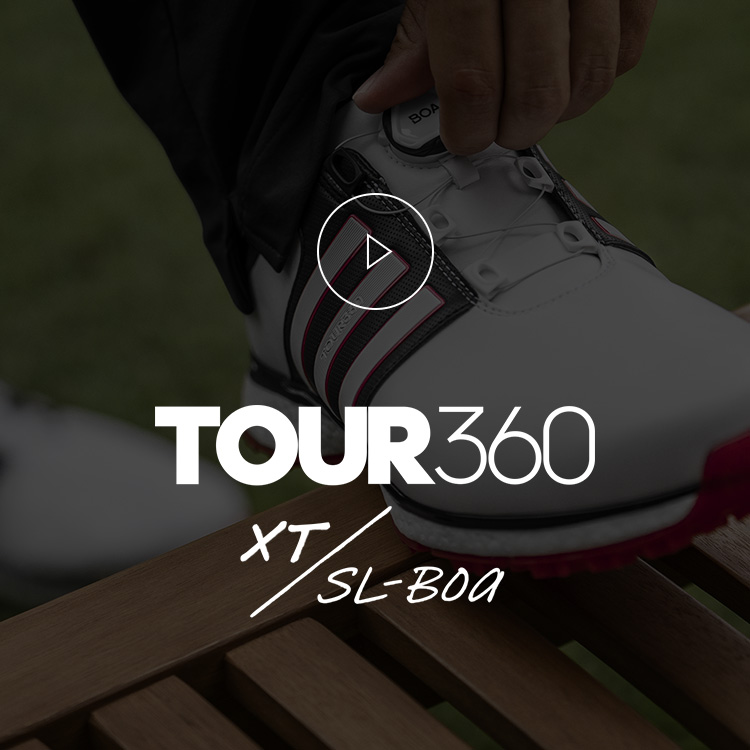
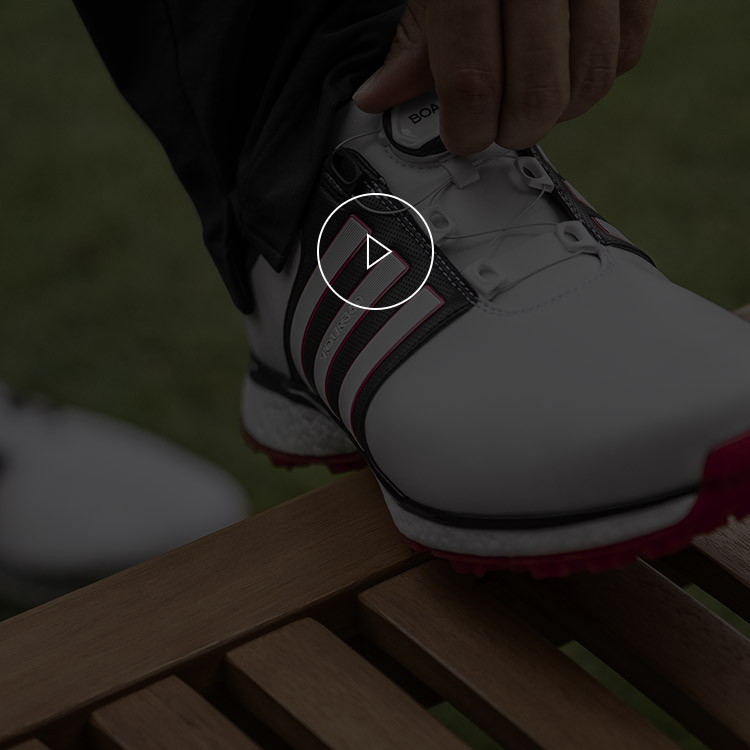
adi_cp_tour360 수정

Changed region(s): [[0.184, 0.5213, 0.7973, 0.828], [0.4907, 0.6747, 0.5213, 0.7053], [0.3373, 0.7973, 0.368, 0.828]]

diff --git a/mobile/html/adidas/2019/event/golf/tour360/build/index.html b/mobile/html/adidas/2019/event/golf/tour360/build/index.html
@@ -438,13 +438,14 @@
 		</div>
 
 		<div id="container">
-<style type="text/css">@media screen and (max-width: 320px){html{font-size:10px}}@media screen and (min-width: 800px){html{font-size:12px}}.pseudo-element{content:'';display:block}#container{padding-top:61px}#tour360{position:relative}#tour360 .button_area_v2{margin:25px 0 0 0;display:inline-block;width:150px}#tour360 .button_area_v2 a{font:500 14px/49px 'NotoSansKR';letter-spacing:1px}#tour360 .button_area_v2 a span.arrow{width:27px}#tour360 .button_area_v2 a span.arrow:after,#tour360 .button_area_v2 a span.arrow:before{width:8px}#tour360 .main{position:relative}#tour360 .main img{width:100%}#tour360 .statement{position:relative;padding:0 0 45px 0;text-align:center}#tour360 .statement p{text-align:center;font:100 15px 'NotoSansKR';letter-spacing:0.2px}#tour360 .statement p.title{padding:25px 0 0 0;font:500 25px/38px 'NotoSansKR'}#tour360 .statement p strong{font:600 26px/38px 'NotoSansKR';letter-spacing:0.2px}#tour360 .statement p span{font:30px 'adinenuPro-bold';letter-spacing:0.4px}#tour360 .statement img{position:relative;top:4px;width:8%}#tour360 .contents>div{position:relative}#tour360 .contents>div.con_01{padding-bottom:126%}#tour360 .contents>div.con_01 img{position:absolute;width:100%}#tour360 .contents>div.con_01 img.con_img{top:5%;left:-5%}#tour360 .contents>div.con_01 img.con_tit{top:70%;left:5%}#tour360 .contents>div.con_01 p{top:85%;left:25%}#tour360 .contents>div.con_02{padding-bottom:140%}#tour360 .contents>div.con_02 img{position:absolute;width:100%}#tour360 .contents>div.con_02 img.con_img{top:-5%;left:5%}#tour360 .contents>div.con_02 img.con_tit{top:78%;left:5%}#tour360 .contents>div.con_02 p{top:89%;left:20%}#tour360 .contents>div.con_03{padding-bottom:145%}#tour360 .contents>div.con_03 img{position:absolute;width:100%}#tour360 .contents>div.con_03 img.con_img{top:5%;left:-5%}#tour360 .contents>div.con_03 img.con_tit{top:65%;left:5%}#tour360 .contents>div.con_03 p{top:80%;left:25%}#tour360 .contents>div img{position:absolute;width:100%}#tour360 .contents>div img.con_img{top:0;left:0;transition:ease-in-out 0.4s;opacity:0}#tour360 .contents>div img.con_tit{top:68%;left:0;transition:ease-in-out 0.4s;transition-delay:0.3s;opacity:0}#tour360 .contents>div p{position:absolute;font:400 1.2rem 'NotoSansKR';transition:ease-in-out 0.4s;transition-delay:0.6s;opacity:0}#tour360 .contents>div.on.con_01 .con_img{top:0%;left:0%;opacity:1}#tour360 .contents>div.on.con_01 .con_tit{left:0;opacity:1}#tour360 .contents>div.on.con_02 .con_img{top:0%;left:0%;opacity:1}#tour360 .contents>div.on.con_02 .con_tit{left:0;opacity:1}#tour360 .contents>div.on.con_03 .con_img{top:0%;left:0%;opacity:1}#tour360 .contents>div.on.con_03 .con_tit{left:0;opacity:1}#tour360 .contents>div.on p{opacity:1}#tour360 .prds.on ul li{opacity:1}#tour360 .prds ul{overflow:hidden}#tour360 .prds ul li{float:left;width:50%;transition:ease-in-out 0.4s;opacity:0}#tour360 .prds ul li:nth-child(1){transition-delay:0}#tour360 .prds ul li:nth-child(2){transition-delay:0.2s}#tour360 .prds ul li:nth-child(3){transition-delay:0.6s}#tour360 .prds ul li:nth-child(4){transition-delay:0.4s}#tour360 .prds ul li a{display:inline-block}#tour360 .prds ul li a img{width:100%}#tour360 .video_area{position:relative;margin-top:1rem}#tour360 .video_area img{width:100%}#tour360 .bottom{position:relative;height:auto}#tour360 .bottom>img{width:100%;display:block}#tour360 .bottom.on .bt_link{top:9%;opacity:1}#tour360 .bottom .bt_link{position:absolute;width:100%;top:12%;left:50%;margin-left:-50%;text-align:center;transition:ease-in-out 0.4s;opacity:0}#tour360 .bottom .bt_link h2{font:400 2.8rem 'adinenuPro-bold';text-align:center;text-transform:uppercase}#tour360 .bottom .bt_link .button_area_v2{margin-top:1rem}
+<style type="text/css">@media screen and (max-width: 320px){html{font-size:10px}}@media screen and (min-width: 800px){html{font-size:12px}}.pseudo-element{content:'';display:block}#container{padding-top:61px}#tour360{position:relative}#tour360 .button_area_v2{margin:25px 0 0 0;display:inline-block;width:150px}#tour360 .button_area_v2 a{font:500 14px/49px 'NotoSansKR';letter-spacing:1px}#tour360 .button_area_v2 a span.arrow{width:27px}#tour360 .button_area_v2 a span.arrow:after,#tour360 .button_area_v2 a span.arrow:before{width:8px}#tour360 .main{position:relative}#tour360 .main img{width:100%}#tour360 .main h2{position:absolute;top:54%;left:0;text-align:center;transition:all 0.4s;opacity:0}#tour360 .main h2 img{width:60%}#tour360 .main h2.on{opacity:1}#tour360 .statement{position:relative;padding:0 0 45px 0;text-align:center;transition:all 0.6s;transition-delay:0.4s;opacity:0}#tour360 .statement.on{opacity:1}#tour360 .statement p{text-align:center;font:100 15px 'NotoSansKR';letter-spacing:0.2px}#tour360 .statement p.title{padding:25px 0 0 0;font:500 25px/38px 'NotoSansKR'}#tour360 .statement p strong{font:600 26px/38px 'NotoSansKR';letter-spacing:0.2px}#tour360 .statement p span{font:30px 'adinenuPro-bold';letter-spacing:0.4px}#tour360 .statement img{position:relative;top:4px;width:8%}#tour360 .contents>div{position:relative}#tour360 .contents>div.con_01{padding-bottom:126%}#tour360 .contents>div.con_01 img{position:absolute;width:100%}#tour360 .contents>div.con_01 img.con_img{top:5%;left:0}#tour360 .contents>div.con_01 img.con_tit{top:70%;left:5%}#tour360 .contents>div.con_01 p{top:85%;left:25%}#tour360 .contents>div.con_02{padding-bottom:140%}#tour360 .contents>div.con_02 img{position:absolute;width:100%}#tour360 .contents>div.con_02 img.con_img{top:5%;left:0}#tour360 .contents>div.con_02 img.con_tit{top:78%;left:5%}#tour360 .contents>div.con_02 p{top:89%;left:20%}#tour360 .contents>div.con_03{padding-bottom:145%}#tour360 .contents>div.con_03 img{position:absolute;width:100%}#tour360 .contents>div.con_03 img.con_img{top:5%;left:0}#tour360 .contents>div.con_03 img.con_tit{top:65%;left:5%}#tour360 .contents>div.con_03 p{top:80%;left:25%}#tour360 .contents>div img{position:absolute;width:100%}#tour360 .contents>div img.con_img{top:0;left:0;transition:ease-in-out 0.4s;opacity:0}#tour360 .contents>div img.con_tit{top:68%;left:0;transition:ease-in-out 0.4s;transition-delay:0.3s;opacity:0}#tour360 .contents>div p{position:absolute;font:400 1.2rem 'NotoSansKR';transition:ease-in-out 0.4s;transition-delay:0.6s;opacity:0}#tour360 .contents>div.on.con_01 .con_img{top:0%;left:0%;opacity:1}#tour360 .contents>div.on.con_01 .con_tit{left:0;opacity:1}#tour360 .contents>div.on.con_02 .con_img{top:0%;left:0%;opacity:1}#tour360 .contents>div.on.con_02 .con_tit{left:0;opacity:1}#tour360 .contents>div.on.con_03 .con_img{top:0%;left:0%;opacity:1}#tour360 .contents>div.on.con_03 .con_tit{left:0;opacity:1}#tour360 .contents>div.on p{opacity:1}#tour360 .prds.on ul li{opacity:1}#tour360 .prds ul{overflow:hidden}#tour360 .prds ul li{float:left;width:50%;transition:ease-in-out 0.4s;opacity:0}#tour360 .prds ul li:nth-child(1){transition-delay:0}#tour360 .prds ul li:nth-child(2){transition-delay:0.2s}#tour360 .prds ul li:nth-child(3){transition-delay:0.6s}#tour360 .prds ul li:nth-child(4){transition-delay:0.4s}#tour360 .prds ul li a{display:inline-block}#tour360 .prds ul li a img{width:100%}#tour360 .video_area{position:relative;margin-top:1rem}#tour360 .video_area img{width:100%}#tour360 .bottom{position:relative;height:auto}#tour360 .bottom>img{width:100%;display:block}#tour360 .bottom.on .bt_link{top:9%;opacity:1}#tour360 .bottom .bt_link{position:absolute;width:100%;top:12%;left:50%;margin-left:-50%;text-align:center;transition:ease-in-out 0.4s;opacity:0}#tour360 .bottom .bt_link h2{font:400 2.8rem 'adinenuPro-bold';text-align:center;text-transform:uppercase}#tour360 .bottom .bt_link .button_area_v2{margin-top:1rem}
 </style>
 
 			<div id="tour360">
 
                 <div class="main">
-                    <img src="/images/adidas/2019/event/golf/tour360/main.jpg" onclick="openModalVideoViewer('jiiE0P3vYkU')" alt="">
+					<img src="/images/adidas/2019/event/golf/tour360/main.jpg" onclick="openModalVideoViewer('jiiE0P3vYkU')" alt="">
+					<h2><img src="/images/adidas/2019/event/golf/tour360/logo.png" alt=""></h2>
                 </div>
 
                 <div class="statement">
@@ -596,6 +597,11 @@
 
 		var openPopInStock;
 		(function($){
+
+			setTimeout(function(){
+				$('.main h2').addClass('on');
+				$('.statement').addClass('on');
+			},400);
 
 			openPopInStock = function(){
 				$('#instock-notification-popup').addClass('open');

diff --git a/mobile/html/adidas/2019/event/golf/tour360/index.scss b/mobile/html/adidas/2019/event/golf/tour360/index.scss
@@ -26,11 +26,31 @@
 		img{
 			width: 100%;
 		}
+		h2{
+			position: absolute;
+			top: 54%;
+			left:0;
+			text-align: center;
+			transition : all 0.4s;
+			opacity: 0;
+			img{
+				width: 60%;
+			}
+			&.on{
+				opacity: 1;
+			}
+		}
 	}
 	.statement{
 		position: relative;
 		padding: 0 0 45px 0;
 		text-align: center;
+		transition : all 0.6s;
+		transition-delay : 0.4s;
+		opacity : 0;
+		&.on{
+			opacity: 1;
+		}
 		p{
 			text-align: center;
 			font:100 15px 'NotoSansKR';
@@ -65,7 +85,7 @@
 				width: 100%;
 					&.con_img{
 						top: 5%;
-						left: -5%;
+						left: 0;
 					}
 					&.con_tit{
 						top: 70%;
@@ -83,8 +103,8 @@
 				position: absolute;
 				width: 100%;
 					&.con_img{
-						top: -5%;
-						left: 5%;
+						top: 5%;
+						left: 0;
 					}
 					&.con_tit{
 						top: 78%;
@@ -103,7 +123,7 @@
 				width: 100%;
 					&.con_img{
 						top: 5%;
-						left: -5%;
+						left: 0;
 					}
 					&.con_tit{
 						top: 65%;

diff --git a/mobile/html/adidas/2019/event/golf/tour360/index.html b/mobile/html/adidas/2019/event/golf/tour360/index.html
@@ -442,7 +442,8 @@
 			<div id="tour360">
 
                 <div class="main">
-                    <img src="/images/adidas/2019/event/golf/tour360/main.jpg" onclick="openModalVideoViewer('jiiE0P3vYkU')" alt="">
+					<img src="/images/adidas/2019/event/golf/tour360/main.jpg" onclick="openModalVideoViewer('jiiE0P3vYkU')" alt="">
+					<h2><img src="/images/adidas/2019/event/golf/tour360/logo.png" alt=""></h2>
                 </div>
 
                 <div class="statement">
@@ -594,6 +595,11 @@
 
 		var openPopInStock;
 		(function($){
+
+			setTimeout(function(){
+				$('.main h2').addClass('on');
+				$('.statement').addClass('on');
+			},400);
 
 			openPopInStock = function(){
 				$('#instock-notification-popup').addClass('open');
